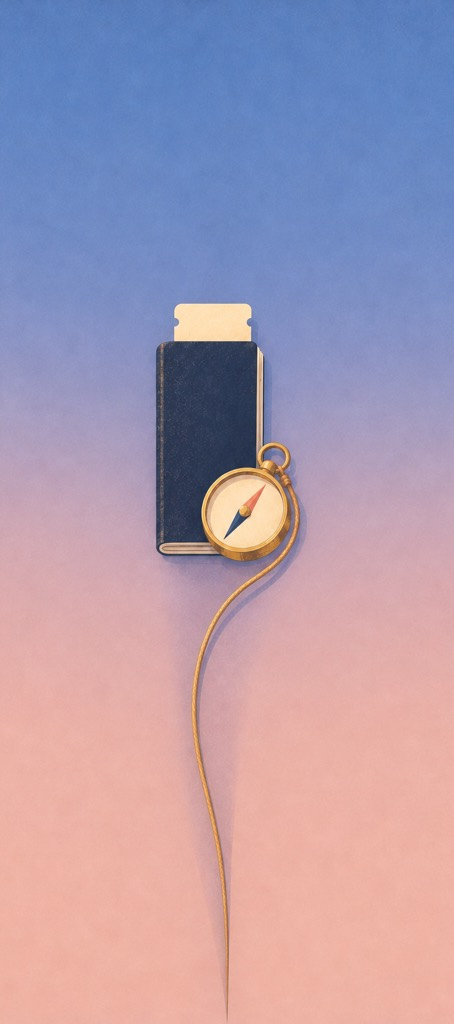
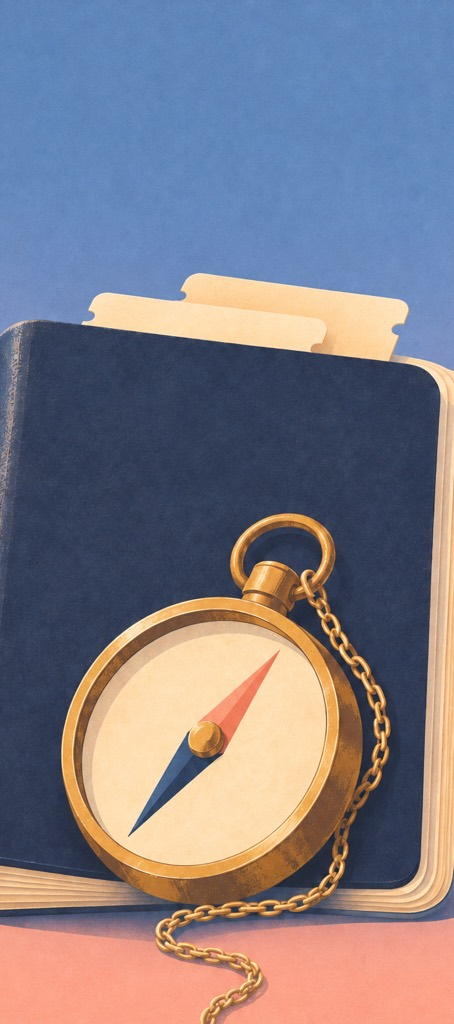
試做：行李、旅遊資料、匯率三張扇形插畫重畫成大一點的版本
- img/m-pack-fan.jpg、m-info-fan.jpg、m-money-fan.jpg：皮箱、護照、紙鈔原本太小太扁，請 Codex 附地圖那張當大小參考重畫（皮箱用使用者選的 A 版）
- sw.js 版本號；HANDOFF 記下「插畫只是裝飾，主角寧可大、被裁掉沒關係」

diff --git a/sw.js b/sw.js
@@ -7,7 +7,7 @@
 // 下面兩段由 make-sw.sh 自動產生：新增或換掉 img/ 的圖之後跑一次 ./make-sw.sh（make-lq.sh 會順便跑）。
 
 // <make-sw>
-var VERSION = "1547e8061f";
+var VERSION = "fd6c1fba91";
 var FONT_CSS = "https://fonts.googleapis.com/css2?family=Archivo+Black&family=IBM+Plex+Mono:wght@400;500;600&family=Noto+Sans+TC:wght@400;500;700;900&display=swap";
 var ASSETS = [
   "./",

diff --git a/HANDOFF.md b/HANDOFF.md
@@ -28,7 +28,7 @@
     - 手指沿圓弧拖曳就能轉，在旁邊暗色背景上拖也可以（移動超過 6px 才算轉，放手會吸附到格子，甩一下最多多轉一格，沒有盡頭；沒移動只點一下背景＝收起）。電腦上有擋掉瀏覽器內建的「拖曳連結／圖片」（`dragstart`、`draggable="false"`），不然滑鼠會轉不動。滾輪／觸控板依累積量每 60 轉一格。打開時會自動轉到看得到目前這頁的位置。
     - 外圈「↻ 轉一轉看更多」印在一條深色弧形底帶上，底帶長度依文字長度計算。字的基線放在底帶中線往內 0.35em 的圓上（`H_TEXT`），不要用 `dominant-baseline`：iPhone Safari 不吃，字會偏到底帶外側。
     - 小花按鈕可以按住拖到左下角（使用者是左撇子），放開吸到最近的下角，記在 `localStorage` 的 `trip-dial-side`。在左邊時整個轉盤左右鏡像：程式裡的角度一律照右邊算，最後才用 `scrAng()`（180° − 角度）換成螢幕角度；拖曳時手指角度也先換回來。卡片上的字在左邊時不轉 180°，改成往外讀、字尾對齊圖片交界處；提示弧線換到右上方（中心角 314°）。拖完按鈕不會誤開轉盤。
-    - 扇形放大＋海報式卡片（2026/11/05 試做中，`fan-text` 分支）：使用者說大拇指轉扇形時老是把字遮住、想放大扇形；試過 Codex 範例圖的兩種排法（直書沿扇形、文字保持水平，都是「內圈色塊寫字、外圈放圖」）後，覺得水平比較好認，但轉的時候眼睛一直盯著字、完全沒看到插畫，選了「海報式」：插畫鋪滿卡片外側三分之二（`S`＝半徑 × 0.66，上緣稍微超出卡片），內側淡入卡片底色（半徑 0.36～0.54，是大拇指放的地方），名字＋編號水平印在 0.84 半徑處（扇形最寬、離大拇指最遠），用地圖在衛星照片上標字的做法：白字外面一圈緊貼字形的深色描邊（0.32em、透明度 .72）再加淡陰影，深淺色都一樣，目前這頁亮金色，字太長就縮小；插畫上不再蓋深色帶（2026/11/06 使用者：只有淡陰影時字跟圖疊在一起不好認，改成實心圓角名牌又覺得方框很突兀）。中英印尼文同一套。名字在每張卡另一張 `.dial-lab` 小畫布上，`setCardTf()` 用跟卡片一樣的 transition 反向轉，打開、轉動、收起整趟都保持水平。小畫布四周多留空間、用 middle 對齊每行中心：iPhone 的字比 Chrome 高，照字的大小剛好裁會切掉字底（使用者在手機上看到）。外半徑跟著螢幕算（`dialGeom()`：250～340，390 寬的手機 316、440 寬 340，`C_K`＝半徑／250），CSS 尺寸用 `--cr`／`--ch`；打開前尺寸變了就重建卡片（`syncGeom()`）。卡片用的插畫是 `TRIP.dialArt`（`img/m-*-fan.jpg`）：選單的 168px 小圖放大會糊，正方形的圖也只鋪得到卡片外側、靠近按鈕那截空著（使用者都覺得可惜），所以請 Codex 照 `tools/fan-template.png`（1024×1536：扇形尖端在下方正中央、往上張開 21.5°；上方 8%～23% 留乾淨天空疊名字、主角放 25%～60%、下段一路延伸到尖端）重畫 8 張扇形專用的直式插畫，主題和畫風照選單小插畫（原圖還在 `~/.codex/generated_images/`，用縮成 168px 逐像素比對找到是哪張）。指令照上面做夜景的 `codex exec`，每張附原圖和模板（`-i ref-<name>.png -i fan-template.png`），一次三張，每張說明寫清楚主角和「往下怎麼延伸」（芭蕉葉柄、樹枝、疊起來的金幣、泳池水道……）。畫好裁出扇形那一條（左右各 12.5°，寬＝2×高×tan12.5°）縮成 454×1024、品質 72，8 張共 532KB。`drawCards()` 看到直式的圖就把尖端對準按鈕中心、上緣到 1.02 倍半徑，整張鋪滿；正方形的圖照舊鋪外側、內側淡入卡片底色。
+    - 扇形放大＋海報式卡片（2026/11/05 試做中，`fan-text` 分支）：使用者說大拇指轉扇形時老是把字遮住、想放大扇形；試過 Codex 範例圖的兩種排法（直書沿扇形、文字保持水平，都是「內圈色塊寫字、外圈放圖」）後，覺得水平比較好認，但轉的時候眼睛一直盯著字、完全沒看到插畫，選了「海報式」：插畫鋪滿卡片外側三分之二（`S`＝半徑 × 0.66，上緣稍微超出卡片），內側淡入卡片底色（半徑 0.36～0.54，是大拇指放的地方），名字＋編號水平印在 0.84 半徑處（扇形最寬、離大拇指最遠），用地圖在衛星照片上標字的做法：白字外面一圈緊貼字形的深色描邊（0.32em、透明度 .72）再加淡陰影，深淺色都一樣，目前這頁亮金色，字太長就縮小；插畫上不再蓋深色帶（2026/11/06 使用者：只有淡陰影時字跟圖疊在一起不好認，改成實心圓角名牌又覺得方框很突兀）。中英印尼文同一套。名字在每張卡另一張 `.dial-lab` 小畫布上，`setCardTf()` 用跟卡片一樣的 transition 反向轉，打開、轉動、收起整趟都保持水平。小畫布四周多留空間、用 middle 對齊每行中心：iPhone 的字比 Chrome 高，照字的大小剛好裁會切掉字底（使用者在手機上看到）。外半徑跟著螢幕算（`dialGeom()`：250～340，390 寬的手機 316、440 寬 340，`C_K`＝半徑／250），CSS 尺寸用 `--cr`／`--ch`；打開前尺寸變了就重建卡片（`syncGeom()`）。卡片用的插畫是 `TRIP.dialArt`（`img/m-*-fan.jpg`）：選單的 168px 小圖放大會糊，正方形的圖也只鋪得到卡片外側、靠近按鈕那截空著（使用者都覺得可惜），所以請 Codex 照 `tools/fan-template.png`（1024×1536：扇形尖端在下方正中央、往上張開 21.5°；上方 8%～23% 留乾淨天空疊名字、主角放 25%～60%、下段一路延伸到尖端）重畫 8 張扇形專用的直式插畫，主題和畫風照選單小插畫（原圖還在 `~/.codex/generated_images/`，用縮成 168px 逐像素比對找到是哪張）。指令照上面做夜景的 `codex exec`，每張附原圖和模板（`-i ref-<name>.png -i fan-template.png`），一次三張，每張說明寫清楚主角和「往下怎麼延伸」（芭蕉葉柄、樹枝、疊起來的金幣、泳池水道……）。畫好裁出扇形那一條（左右各 12.5°，寬＝2×高×tan12.5°）縮成 454×1024、品質 72，8 張共 688KB。使用者：辨識靠名字，插畫只是裝飾，主角寧可畫大、被扇形裁掉沒關係；第一版的皮箱、護照、紙鈔畫得太小太扁（皮箱被笑扁得像公事包），附上地圖那張（`fan-days.png`）當大小參考重畫，每張畫兩個版本挑（皮箱使用者選 A，帽子比較大那張）。`drawCards()` 看到直式的圖就把尖端對準按鈕中心、上緣到 1.02 倍半徑，整張鋪滿；正方形的圖照舊鋪外側、內側淡入卡片底色。
       - **不能只等 `pointerup` 才收尾**（2026/11/05 使用者在電腦上回報：常常沒吸附，按鈕停在哪裡都能打開扇形，而且方向還是右邊那套、卡片跑出畫面；之後再拖，按鈕跳到畫面外不見）：滑鼠拖過頭、在瀏覽器（或 Claude 桌面版的瀏覽器窗格）外面才放開時，網頁收不到 pointerup，按鈕就卡在拖曳中（`is-moving`，放大 1.08 倍）。現在 `finishMove()`（吸到最近的下角）在這些時候都會跑：pointerup／pointercancel（聽在 window 上）、滑鼠沒按著卻在動（`e.buttons === 0`）、視窗 blur、切到背景、再按一次按鈕（這一下只吸回角落）、`openDial()` 和換頁前（`settleMove()`）。一按下就 `setPointerCapture`（原本移 8px 才鎖定，滑鼠一開始移太快會跑掉）；按鈕還在滑回角落時被抓住，從畫面上的位置接著拖（`hubShift()` 讀目前的 transform）。轉動扇形的拖曳也一樣：沒按著卻在動就照放開對齊格子。測試在 `tools/test-dial.html` 的 `release lost` 那幾項；**模擬拖曳的 PointerEvent 一定要帶 `buttons`**（按著＝1），不然會被當成已經放開。
     - 有轉盤的頁面底部留白加高到 104px，才不會擋到「後一天」。
   - 婚禮兩天（12/19、12/20，`wedding: true`）會飄白色茉莉花（melati，`setPetals()`），固定在畫面上、`pointer-events: none` 不擋點擊。花是 Codex 畫的透明 PNG `img/melati-1..6.png`（96px：1–3 盛開的花正面／斜／側、4–5 花苞、6 一片花瓣），每朵 18–28px。2026/11/01 換掉原本程式畫的單片花瓣（使用者覺得像櫻花）。不用雞蛋花（kamboja）：在爪哇常種在墓地，婚禮頁不適合。
